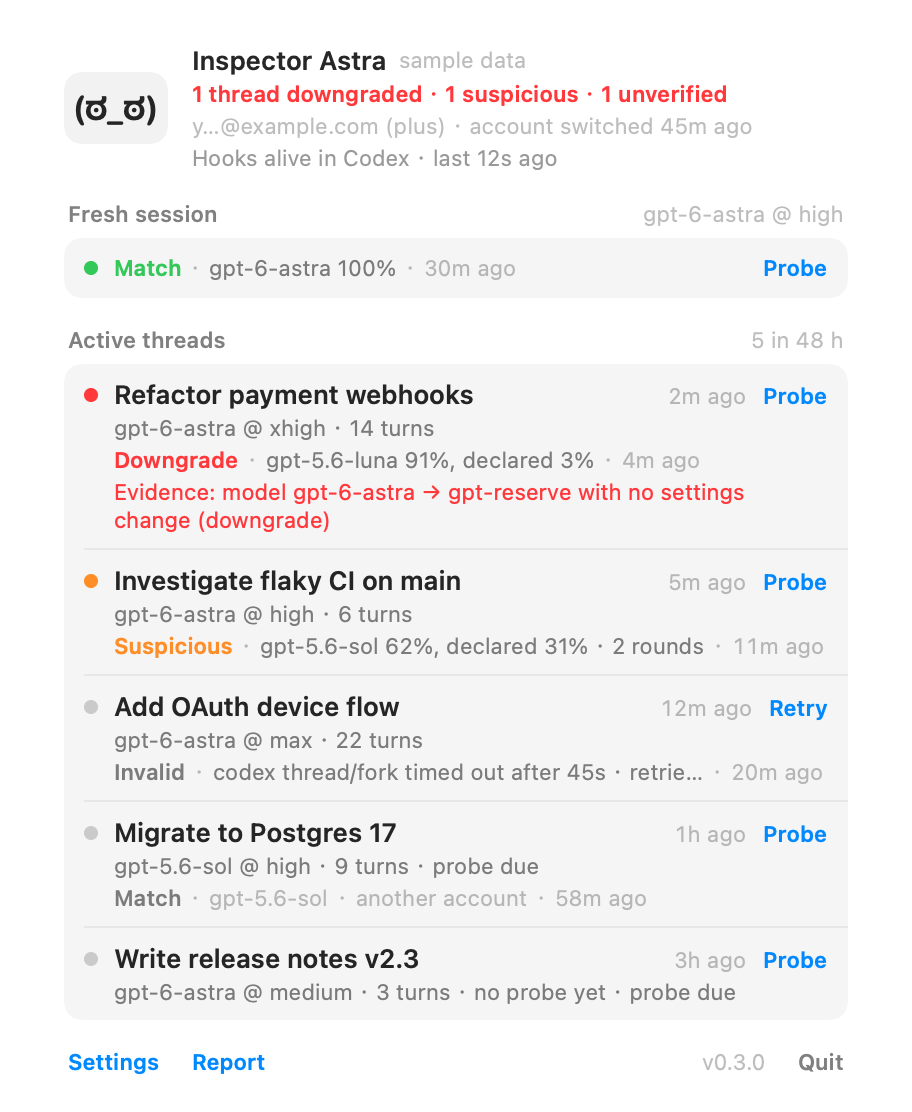
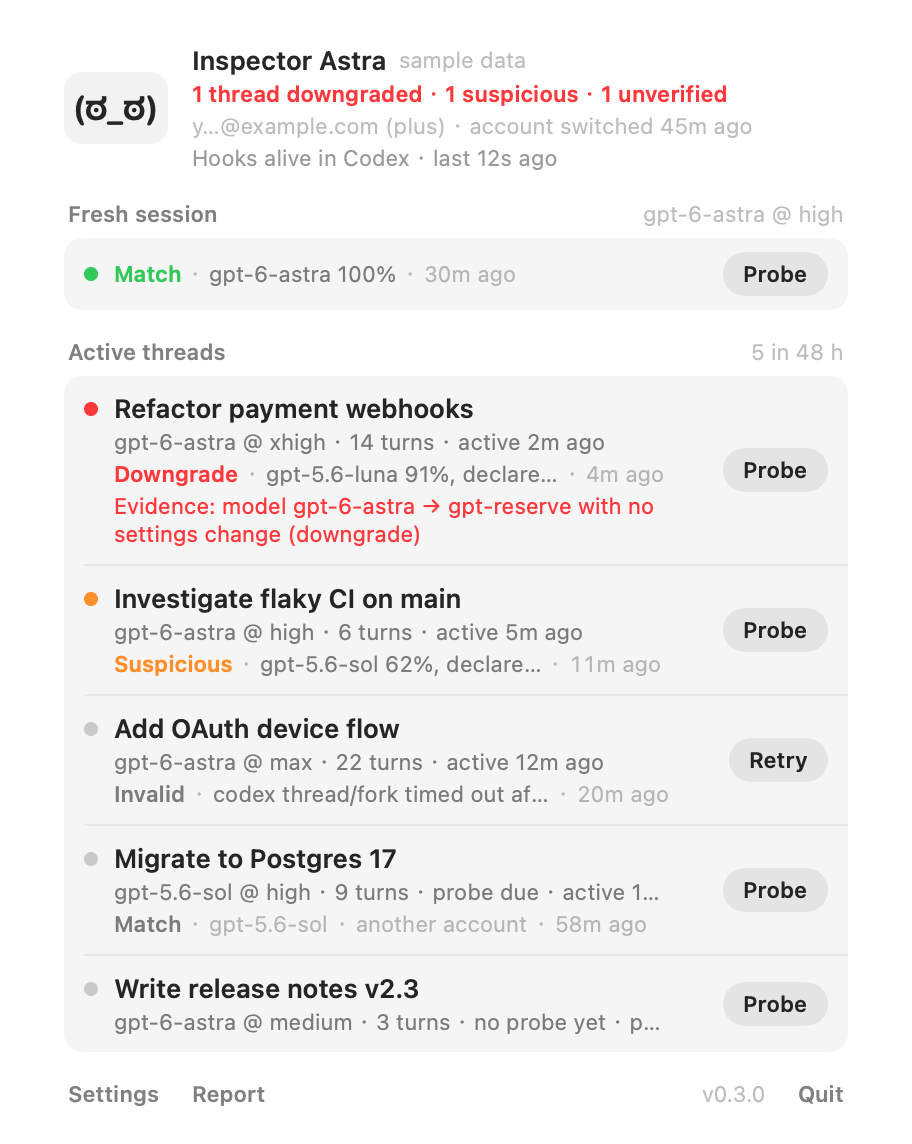
Panel: no accent colour; per-row action as a small glass capsule centred at the trailing edge; activity time moves into the meta line; hide one-shot codex exec sessions from the thread list

diff --git a/macos/Sources/IsGPTNerfed/PanelView.swift b/macos/Sources/IsGPTNerfed/PanelView.swift
@@ -1,6 +1,7 @@
 import SwiftUI
 
-// MARK: - Verdict presentation: one colored word, no pills, no icons
+// MARK: - Verdict presentation: one coloured word, no pills, no icons. The only colours in the panel are the
+// semantic ones (green / orange / red) on dots, verdict words and evidence lines.
 
 extension ProbeSummary {
     var tint: Color {
@@ -57,11 +58,12 @@ private func petFace(alert: Bool, warn: Bool, running: Bool) -> String {
     return "(•ᴗ•)"
 }
 
-/// "Match · gpt-6-astra 100% · 10h ago" as one line, verdict word colored.
+/// "Match · gpt-6-astra 100% · 10h ago" as one line, verdict word coloured; dimmed when it cannot vouch for
+/// the signed-in account.
 struct VerdictLine: View {
     let probe: ProbeSummary
     var body: some View {
-        let stale = probe.staleAccount == true  // obtained under another Codex account: dimmed, does not vouch
+        let stale = probe.staleAccount == true
         HStack(spacing: 4) {
             Text(probe.word).font(Type.strong).foregroundStyle(stale ? Color.secondary : probe.tint)
             Text("·").foregroundStyle(.tertiary)
@@ -136,6 +138,23 @@ struct PanelView: View {
         }
     }
 
+    private var statusWord: String {
+        if let err = store.lastError { return "nerfed error: \(err)" }
+        guard let s = store.snapshot else { return "Loading…" }
+        let m = s.overall.message
+        return m.prefix(1).uppercased() + m.dropFirst()
+    }
+
+    private var statusRest: String {
+        guard let s = store.snapshot, store.lastError == nil else { return "" }
+        var parts: [String] = []
+        if let acct = s.account?.label, !acct.isEmpty {
+            parts.append(acct + (s.account?.plan.map { " (\($0))" } ?? ""))
+        }
+        if let ago = s.account?.switchedAgo, !ago.isEmpty { parts.append("account switched \(ago)") }
+        return parts.joined(separator: " · ")
+    }
+
     /// Hook plumbing state. Attention (orange) whenever Codex will not run the hooks yet.
     private var hooksLine: (String, Bool)? {
         guard let s = store.snapshot, store.lastError == nil else { return nil }
@@ -158,23 +177,6 @@ struct PanelView: View {
         return "No hook events yet"
     }
 
-    private var statusWord: String {
-        if let err = store.lastError { return "nerfed error: \(err)" }
-        guard let s = store.snapshot else { return "Loading…" }
-        let m = s.overall.message
-        return m.prefix(1).uppercased() + m.dropFirst()
-    }
-
-    private var statusRest: String {
-        guard let s = store.snapshot, store.lastError == nil else { return "" }
-        var parts: [String] = []
-        if let acct = s.account?.label, !acct.isEmpty {
-            parts.append(acct + (s.account?.plan.map { " (\($0))" } ?? ""))
-        }
-        if let ago = s.account?.switchedAgo, !ago.isEmpty { parts.append("account switched \(ago)") }
-        return parts.joined(separator: " · ")
-    }
-
     // MARK: fresh session (global probe)
 
     private var fresh: some View {
@@ -182,7 +184,7 @@ struct PanelView: View {
         let running = snap?.globalRunning ?? false
         let last = snap?.globalProbe
         return Group(title: "Fresh session", trailing: "\(snap?.defaultModel ?? "default model")\(snap?.defaultEffort.map { " @ \($0)" } ?? "")") {
-            HStack(spacing: 8) {
+            HStack(alignment: .center, spacing: 8) {
                 Circle().fill(last.map { ($0.isFailure || $0.staleAccount == true) ? Color.secondary.opacity(0.35) : $0.tint } ?? Color.secondary.opacity(0.35))
                     .frame(width: 7, height: 7)
                 if running {
@@ -195,11 +197,11 @@ struct PanelView: View {
                 }
                 Spacer(minLength: 8)
                 if !running {
-                    TextButton(title: last?.retryable == true ? "Retry" : "Probe") { store.probeFresh() }
+                    RowButton(title: last?.retryable == true ? "Retry" : "Probe") { store.probeFresh() }
                         .help("Start brand-new ephemeral sessions and fingerprint what a new session gets")
                 }
             }
-            .padding(.horizontal, 10).padding(.vertical, 8)
+            .padding(.horizontal, 10).padding(.vertical, 7)
         }
     }
 
@@ -247,13 +249,18 @@ struct PanelView: View {
             }
             Spacer()
             if let v = store.snapshot?.version { Text("v\(v)").font(Type.text).foregroundStyle(.tertiary) }
-            TextButton(title: "Quit", color: .secondary) { NSApplication.shared.terminate(nil) }
+            TextButton(title: "Quit") { NSApplication.shared.terminate(nil) }
         }
         .padding(.horizontal, 2)
     }
 }
 
-// MARK: - Thread row: title + time · model line · verdict line · evidence (only when present)
+// MARK: - Thread row
+//
+//   ● Title                                        ┌───────┐
+//     model @ effort · N turns · active 2m ago     │ Probe │   ← one action, vertically centred
+//     Match · gpt-6-astra 100% · 5m ago            └───────┘
+//     Evidence: … (only when there is any)
 
 struct ThreadRow: View {
     @Environment(Store.self) private var store
@@ -268,40 +275,40 @@ struct ThreadRow: View {
     }
 
     var body: some View {
-        HStack(alignment: .top, spacing: 8) {
-            Circle().fill(dot).frame(width: 7, height: 7).padding(.top, 5)
-            VStack(alignment: .leading, spacing: 2) {
-                HStack(alignment: .firstTextBaseline, spacing: 8) {
+        HStack(alignment: .center, spacing: 10) {
+            HStack(alignment: .top, spacing: 8) {
+                Circle().fill(dot).frame(width: 7, height: 7).padding(.top, 5)
+                VStack(alignment: .leading, spacing: 2) {
                     Text(thread.title).font(Type.title).lineLimit(1)
-                    Spacer(minLength: 4)
-                    Text(thread.updatedAgo ?? "").font(Type.text).monospacedDigit().foregroundStyle(.tertiary)
-                    action
-                }
-                Text(meta).font(Type.text).foregroundStyle(.secondary).lineLimit(1)
-                if thread.probeRunning {
-                    HStack(spacing: 5) {
-                        ProgressView().controlSize(.mini)
-                        Text(thread.probeNote.map { "Probing · \($0)…" } ?? "Probing, ephemeral forks in flight…").font(Type.text).foregroundStyle(.secondary)
+                    Text(meta).font(Type.text).foregroundStyle(.secondary).lineLimit(1)
+                    if thread.probeRunning {
+                        HStack(spacing: 5) {
+                            ProgressView().controlSize(.mini)
+                            Text(thread.probeNote.map { "Probing · \($0)…" } ?? "Probing, ephemeral forks in flight…").font(Type.text).foregroundStyle(.secondary)
+                        }
+                    } else if let p = thread.lastProbe {
+                        VerdictLine(probe: p)
                     }
-                } else if let p = thread.lastProbe {
-                    VerdictLine(probe: p)
-                }
-                if thread.hardEvidence > 0, let ev = thread.lastEvidence {
-                    Text("Evidence: \(ev)").font(Type.text).foregroundStyle(.red).lineLimit(2)
-                } else if thread.softEvidence > 0, let ev = thread.lastEvidence {
-                    Text("Check: \(ev)").font(Type.text).foregroundStyle(.orange).lineLimit(1)
+                    if thread.hardEvidence > 0, let ev = thread.lastEvidence {
+                        Text("Evidence: \(ev)").font(Type.text).foregroundStyle(.red).lineLimit(2)
+                    } else if thread.softEvidence > 0, let ev = thread.lastEvidence {
+                        Text("Check: \(ev)").font(Type.text).foregroundStyle(.orange).lineLimit(1)
+                    }
                 }
             }
+            Spacer(minLength: 8)
+            action
         }
-        .padding(.horizontal, 10).padding(.vertical, 7)
+        .padding(.horizontal, 10).padding(.vertical, 8)
     }
 
     private var meta: String {
         var parts = ["\(thread.model ?? "?")\(thread.effort.map { " @ \($0)" } ?? "")"]
-        if thread.turns > 0 { parts.append("\(thread.turns) turns") }
+        if thread.turns > 0 { parts.append(thread.turns == 1 ? "1 turn" : "\(thread.turns) turns") }
         if thread.lastProbe == nil && !thread.probeRunning { parts.append("no probe yet") }
         if thread.halted { parts.append("halted") }
         if thread.due { parts.append("probe due") }
+        if let ago = thread.updatedAgo, !ago.isEmpty { parts.append("active \(ago)") }
         return parts.joined(separator: " · ")
     }
 
@@ -309,10 +316,10 @@ struct ThreadRow: View {
         if thread.probeRunning {
             EmptyView()
         } else if thread.halted {
-            TextButton(title: "Resume", color: .red) { Task { await store.resume(thread) } }
+            RowButton(title: "Resume", destructive: true) { Task { await store.resume(thread) } }
                 .help("Clear the halt (work tools are denied in this thread)")
         } else {
-            TextButton(title: thread.lastProbe?.retryable == true ? "Retry" : "Probe") { store.probe(thread) }
+            RowButton(title: thread.lastProbe?.retryable == true ? "Retry" : "Probe") { store.probe(thread) }
                 .help("Fork this thread ephemerally (3 parallel forks) and fingerprint the answering model")
         }
     }

diff --git a/macos/Sources/IsGPTNerfed/Glass.swift b/macos/Sources/IsGPTNerfed/Glass.swift
@@ -47,11 +47,33 @@ struct RowSeparator: View {
     var body: some View { Divider().opacity(0.6).padding(.leading, 10) }
 }
 
-/// Text-only action (Probe / Retry / Resume / Settings / Report / Quit). No icons anywhere in the panel.
+/// Per-row action (Probe / Retry / Resume): a small text capsule, the way System Settings puts an action at the
+/// trailing edge of a list row. Glass in the live panel; a flat capsule in offscreen renders. No accent colour.
+struct RowButton: View {
+    @Environment(\.plainRendering) private var plain
+    let title: String
+    var destructive = false
+    let action: () -> Void
+
+    var body: some View {
+        if plain {
+            Text(title).font(Type.strong).foregroundStyle(destructive ? Color.red : Color.primary)
+                .padding(.horizontal, 10).padding(.vertical, 4)
+                .background(Color.primary.opacity(0.08), in: Capsule())
+        } else {
+            Button(action: action) { Text(title).font(Type.strong) }
+                .buttonStyle(.glass)
+                .controlSize(.small)
+                .tint(destructive ? Color.red : nil)
+        }
+    }
+}
+
+/// Quiet text action for the footer (Settings / Report / Quit). Secondary colour, no accent.
 struct TextButton: View {
     @Environment(\.plainRendering) private var plain
     let title: String
-    var color: Color = .accentColor
+    var color: Color = .secondary
     let action: () -> Void
 
     var body: some View {
